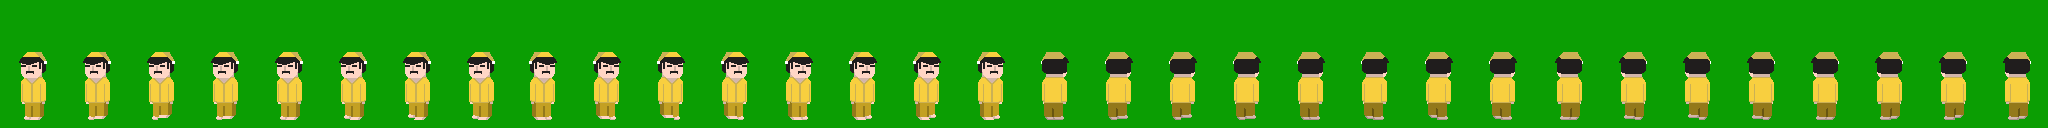
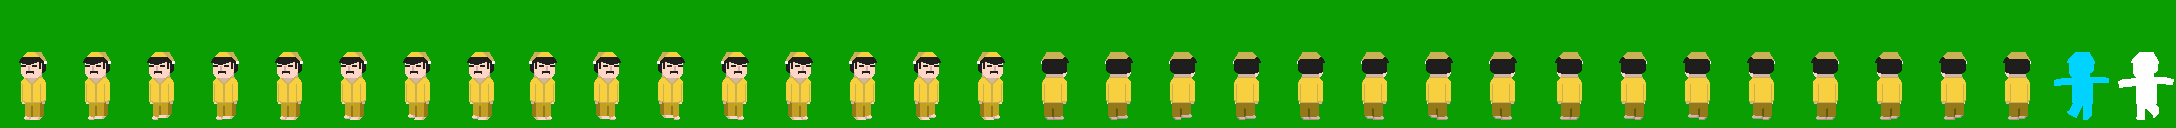
added the death aminations
- all characters have death animations, the walking animations still work as intended

Changed region(s): [[0.0, 0.4062, 1.0, 0.9375]]

diff --git a/src/character.py b/src/character.py
@@ -22,11 +22,13 @@ class Character(Ent):
         
         match self.char:
             case Char.heir:
+                animation_steps = 34
                 self.current_room = 3
                 self.path = [0]
                 filepath = "../res/the_heir.png"
 
             case Char.duke:
+                animation_steps = 39
                 self.current_room = 3
                 self.path = [0, 1, 2, 3]
                 filepath = "../res/duke_sprite.png"
@@ -34,13 +36,14 @@ class Character(Ent):
             case Char.duchess:
                 self.current_room = 3
                 self.path = [4, 5, 6, 7]
-                animation_steps = 4
+                animation_steps = 9
                 self.dr_start = 1
                 self.ur_start = 2
                 self.ul_start = 3
                 filepath = "../res/mother.png"
 
             case Char.cleaner:
+                animation_steps = 37
                 self.current_room = 3
                 self.path = [8, 10]
                 filepath = "../res/the_maid.png"
@@ -48,7 +51,7 @@ class Character(Ent):
             case Char.lady:
                 self.current_room = 3
                 self.path = [12, 15]
-                animation_steps = 16
+                animation_steps = 21
                 self.dr_start = 4
                 self.ur_start = 8
                 self.ul_start = 12

diff --git a/src/main.py b/src/main.py
@@ -10,6 +10,12 @@ from settings import Settings, WIDTH, HEIGHT, GameVars
 
 if __name__ == "__main__":
     pygame.init()
+
+    ###this is for the snarky joke im gonna leave in the game
+    ##remove once the joke has been done
+    ###its blitted at the end of the main function
+    meme = pygame.image.load(Path("../res/comment.jpg"))
+
     settings = Settings()
     ###initialise the game vars
     game_vars = GameVars()
@@ -69,5 +75,8 @@ if __name__ == "__main__":
         game_vars.room_list[game_vars.current_room].draw(screen, player)
         player.draw_inv(screen)
 
+        ###this is where I blit the image to the screen, the image is leaded at the begining of the main function
+        ###can remove once done
+        #screen.blit(meme, (0, 0))
 
         pygame.display.update()
